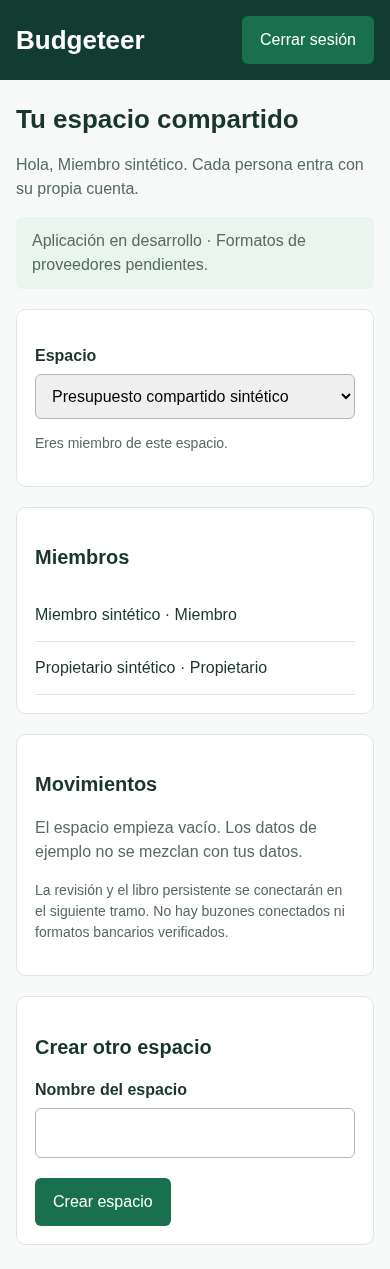
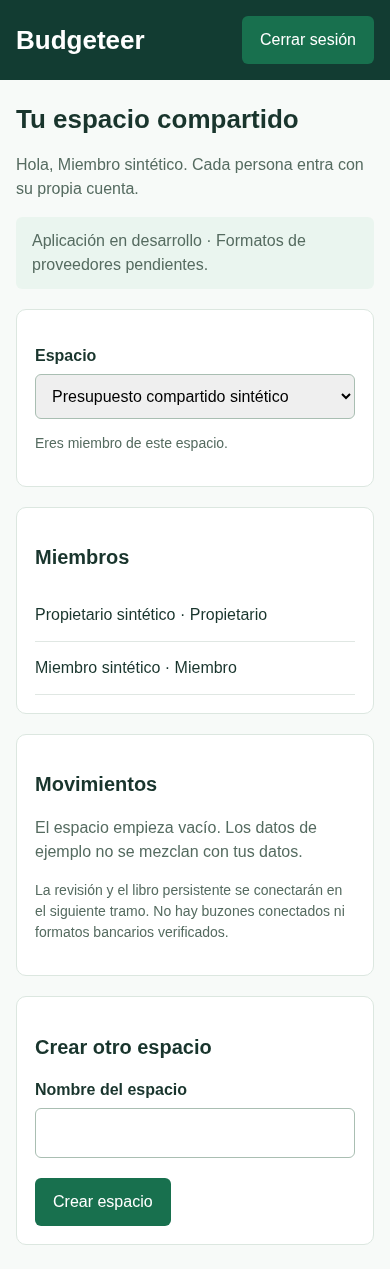
docs: review the first M2 foundation checkpoint and remaining gates

Changed region(s): [[0.0923, 0.5225, 0.6769, 0.5532], [0.0923, 0.461, 0.6769, 0.4917]]

diff --git a/docs/milestones/02-local-app.md b/docs/milestones/02-local-app.md
@@ -1,6 +1,6 @@
 # M2 Local import, review, and persistent ledger
 
-- Status: runtime approved; architecture independently reviewed and Overseer-approved; common M2 implementation released, provider/adoption gates remain.
+- Status: in progress; first shared-account foundation checkpoint implemented and verified; provider, financial-journey and remaining auth/shared-operation gates remain.
 - Owner: internal `m2_implementation` agent under the single Cloud Overseer; proposal/architecture and independent review delivered by separate internal agents.
 - Branch: `codex/m2-local-app`, based on accepted M1 history at `ba36146`; M1 is unmerged to `master`.
 - Dependency: M1 accepted on 2026-10-23.
@@ -126,7 +126,7 @@ Exact-input replay protection is not anonymization: fingerprints are sensitive d
 
 ## Verification
 
-Architecture/documentation only. Canonical documents, module/data boundaries and independent findings reviewed; no new application code, parser, schema, database or real-input verification exists. Whitespace/local Markdown links are checked across the updated governance, architecture and review documents. Only documentation changes were made; the accepted M1 application files are unchanged. No real email or ignored path was opened.
+The architecture checkpoint was documentation-only. Application foundation now exists in `app/`; the accepted M1 prototype remains unchanged. Stage evidence below records actual TypeScript, HTTP and Chromium checks. No provider parser, financial-ledger persistence or real-input support is verified. No real email or ignored input path was opened.
 
 ## Risks and open questions
 
@@ -156,3 +156,13 @@ Architecture/documentation only. Canonical documents, module/data boundaries and
 ## Staged continuation — 2026-10-24
 
 The worktree resumed clean at `31c32bd`. The initial implementation attempt stopped at a usage limit before application code was written. Common work has resumed with maintained-auth/SQLite compatibility and shared-workspace persistence. See [development workflow](../development-workflow.md) for one PR per milestone, temporary dependency stacking and stage checkpoints. Provider gates and final acceptance remain unchanged. No completed M2 feature is asserted by this continuation record.
+
+
+## First foundation checkpoint — 2026-10-24
+
+- Stable app deliverable: `47d0cb2259bf825b595f94556428a344a51cc3d9`; implementation and [launch instructions](../../app/README.md) in `app/`. Stage 1 is a partial milestone checkpoint, not completion of item 1 or all M2.
+- Maintained library proof uses pinned Better Auth/Fastify/SQLite with protected enrollment context and HTTP endpoint allowlisting. Library signup enumeration protection can return synthetic 200 without creating an account; raw public signup is denied by the application. Browser JSON omits session tokens. The real SQLite library stores usable bearer tokens: encrypted storage remains a real shared-operation gate, not an invented hash/encryption claim.
+- The author and Overseer ran checks: TypeScript and six Node test cases passed, plus a real listening-server/Chromium proof with independent owner/member/outsider contexts. Proof covers invitation-only enrollment, shared membership, nonmember/owner boundaries, restart, removal, logout, preserved active forms and discarded late invitation responses after identity invalidation. Safe screenshots and machine-readable evidence are in `app/verification/`. Synthetic identities/keys were generated at runtime; temporary test databases were cleaned and no proof server remains running.
+- Corrected review findings include invalid bootstrap orphaning, interrupted setup recovery, unsupported-schema protection, strict local-date validation, transport token exposure, stale client action results and visible-form polling resets. No full security/accessibility/production readiness claim is made.
+- Remaining: persisted financial proposals/evidence/review/ledger; all provider adapters/contracts; complete auth rate/expiry/password-change/account/cleanup checks and shared HTTPS/proxy/storage verification. Item 1 remains in progress. No real financial data should be used in this checkpoint's shared-operation mode.
+- Review workflow: M1 PR #1 targets `master`; M2 draft PR #2 targets M1. No PR or default-branch merge occurred. Project statuses remain manual. Next bounded work is common financial services/read journeys and remaining auth adoption checks while actual provider formats remain gated.

diff --git a/README.md b/README.md
@@ -4,7 +4,7 @@ Budgeteer is a privacy-conscious personal finance product that tracks and catego
 
 ## Current status
 
-M0 is accepted, complete, and published to `origin/master`. M1 now delivers a locally runnable, connected Spanish (Chile) prototype using synthetic structured in-memory data and the selected option 2 with mostly green colors. Browser journeys, responsive widths, and primary keyboard interactions are verified. M1 was accepted after user local review on 2026-10-23. M2 proposal preparation is authorized; implementation is not. No production stack, persistence, authentication, ingestion, or mailbox integration has been introduced.
+M0 is accepted, complete, and published to `origin/master`. M1 now delivers a locally runnable, connected Spanish (Chile) prototype using synthetic structured in-memory data and the selected option 2 with mostly green colors. Browser journeys, responsive widths, and primary keyboard interactions are verified. M1 was accepted after user local review on 2026-10-23. M2 is in staged implementation: its first authenticated shared-workspace foundation is implemented in `app/`, with provider imports and persistent financial review/ledger journeys still pending. No production deployment or mailbox integration exists.
 
 Run instructions: [prototype/README.md](prototype/README.md). Scope and verification: [M1 milestone](docs/milestones/01-product-and-ux-prototype.md), [design QA](design-qa.md), and [Overseer audit](docs/design/m1/audit.md). The M1 deliverable is published on `codex/m1-product-ux-prototype` at `b3aef1e`; no merge to `master` has been performed.
 
@@ -21,4 +21,9 @@ When sources conflict, follow the authority order in `AGENTS.md`; do not silentl
 
 ## Development status
 
-M0 establishes the repository contract and the privacy boundary for future work. M1 is accepted; M2 is in proposal preparation and M3–M7 remain planned. Internal milestone agents coordinate directly with the single Overseer under `AGENTS.md`. Contributors should begin by reading the documents above, work within an approved milestone packet, and keep raw email out of the repository, logs, and durable application storage.
+M0 establishes the repository contract and the privacy boundary for future work. M1 is accepted; M2 is in staged implementation and M3–M7 remain planned. Internal milestone agents coordinate directly with the single Overseer under `AGENTS.md`. Contributors should begin by reading the documents above, work within an approved milestone packet, and keep raw email out of the repository, logs, and durable application storage.
+
+
+## Current M2 stage
+
+The shared-account foundation runs separately in [app/](app/README.md) on local port 4174; [prototype/](prototype/README.md) preserves the accepted M1 demo. M2 stage 1 proves protected account setup, password sign-in, invitation enrollment, shared membership, nonmember denial and restart/logout behavior. It is not a complete financial app: provider formats, review/ledger journeys and further auth/shared-operation checks remain pending. See [development stages](docs/development-workflow.md) and [M2 draft PR #2](https://github.com/jheredia/budgeteer/pull/2). No default credentials or synthetic financial entries are inserted into normal workspaces.

diff --git a/app/README.md b/app/README.md
@@ -36,7 +36,7 @@ Pinned actual packages: Better Auth 1.7.12, Fastify 5.12.7, better-sqlite3 12.11
 
 Workspace/member/invitation queries are scoped. Owner/member policy is enforced server-side, not by hidden buttons. Invitations persist only as digests. Signup requires an unexpired invitation and account creation cannot grant financial access by itself. If enrollment loses a race with invitation revocation after account creation, the account may exist without membership; it has no workspace access and can accept a fresh invitation after signing in. Automated orphan account deletion is not implemented.
 
-Browser state stays in memory: no cookies/web storage for financial caches or bearer credentials. Revalidation does not rebuild unchanged forms. Logout/context changes invalidate pending responses; a late invitation response cannot render an old workspace grant after cross-tab logout. Visible connected pages revalidate within 30 seconds and on focus/restoration; hidden views clear private content. Server denial is immediate; previously delivered offline data cannot be recalled.
+Financial browser state stays in memory; no financial caches or script-accessible bearer credentials are stored in web storage. Authentication uses the HttpOnly session cookie described above. Revalidation does not rebuild unchanged forms. Logout/context changes invalidate pending responses; a late invitation response cannot render an old workspace grant after cross-tab logout. Visible connected pages revalidate within 30 seconds and on focus/restoration; hidden views clear private content. Server denial is immediate; previously delivered offline data cannot be recalled.
 
 ## Verification
 

diff --git a/docs/overseer-handoff.md b/docs/overseer-handoff.md
@@ -113,3 +113,8 @@ M2 resumed at clean `31c32bd`; the prior worker stopped at a usage limit before 
 ## PR stack opened — 2026-10-24
 
 M1 PR #1 targets `master`; M2 draft PR #2 targets the M1 branch. URLs and staging rules are in `docs/development-workflow.md`. M1 branch commit `48de513` reconciles master history while preserving the exact accepted `ba36146` file tree. Neither PR was merged and the default branch is unchanged. M2 common-auth package/HTTP tests are being developed in `app/`; publication of app code follows its first verified checkpoint. No provider support or completed M2 is asserted.
+
+
+## First M2 code checkpoint — 2026-10-24
+
+The author delivered `47d0cb2`: maintained password authentication, protected setup, invitation enrollment and persistent workspace membership in `app/`. Independent Overseer TypeScript/six-node-test/real-Chromium checks passed, including restart, nonmember denial, logout, form preservation and late-response isolation. The root README and milestone record now distinguish this partial checkpoint from the untouched M1 prototype and remaining M2 work. Publish it to draft PR #2. No provider parser, financial-ledger journey, shared real-data readiness, complete M2 or default-branch merge is claimed. User Project statuses remain manual.

diff --git a/docs/development-workflow.md b/docs/development-workflow.md
@@ -31,3 +31,8 @@ M2 resumed at clean `31c32bd`. The previous implementation attempt stopped at a 
 - [M2 draft PR #2](https://github.com/jheredia/budgeteer/pull/2): `codex/m2-local-app` → `codex/m1-product-ux-prototype`, staged work in progress.
 
 M1 reconciles `origin/master` history in milestone-branch commit `48de513`; its file tree is identical to accepted M1 commit `ba36146`. This resolves old documentation conflicts without changing the accepted prototype, rewriting history or merging into `master`. Both PRs were reported mergeable after creation. Keep M2 draft until its complete acceptance criteria pass, and retarget it after M1 is merged with separate authorization.
+
+
+## First implemented M2 checkpoint
+
+App commit `47d0cb2` delivers the first shared-account foundation in `app/`, verified by the author and Overseer with TypeScript, six Node tests and real listening-server/Chromium checks. It does not complete M2 or all auth adoption: financial flows/providers and shared-operation gates remain. Stage commits are published to M2 draft PR #2 rather than opening a separate PR for each fix. See `app/README.md` for exact launch and limits.
